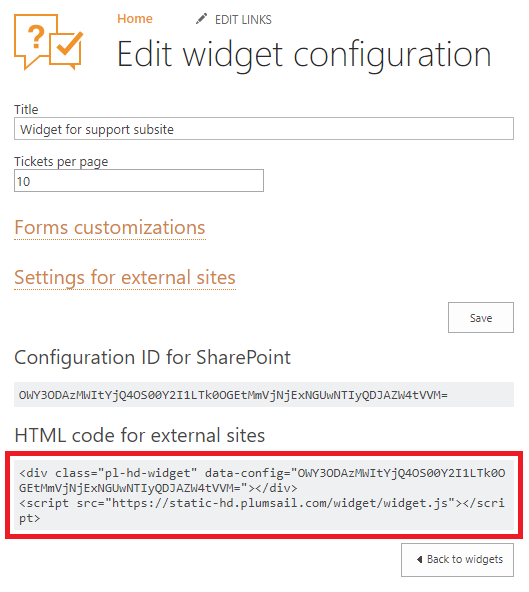
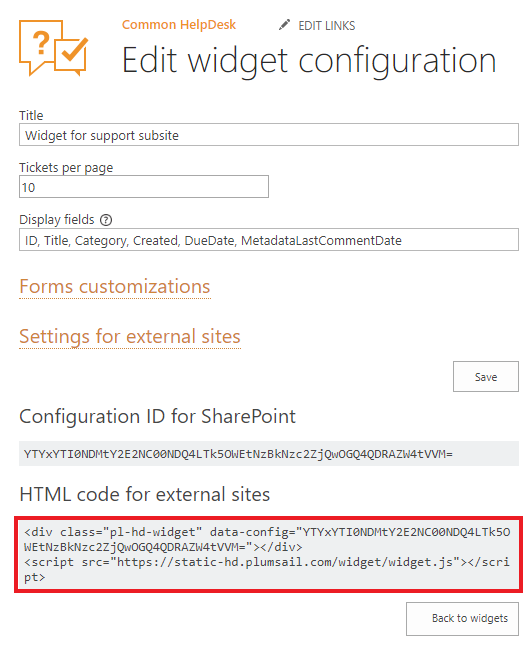
updated widget configuration docs

diff --git a/Online/Configuration Guide/Adding widget to external site.rst b/Online/Configuration Guide/Adding widget to external site.rst
@@ -14,7 +14,15 @@ Here you can create a new widget configuration for your page by choosing 'New it
 |NewWidget|
 
 Provide a title for a widget configuration and choose how many tickets will be displayed on the page.
+
+You can customize fields displayed in widget ticket list. To do this you will need to provide a list of comma-separated field names in Display fields section. Note, that you need to use `internal names`_ of the fields. 
+
 If you are creating a widget for external site, you can choose widget language and whether to allow user registration. Registered users have ability to review their tickets.
+
+.. note::
+   Display fields customization is available from version 1.4.7.
+.. note::
+   Display fields are cached for 30 minutes for optimisation purposes. You will need to clear browser cache to apply your changes immediatly.
 
 |WidgetMenu|
 
@@ -56,3 +64,4 @@ Open editing form of your HTML page and add copied code where you'd like to plac
 
 
 .. _this link: /Configuration%20Guide/deprecated/Widget.html
+.. _internal names: ../How%20To/Find%20the%20internal%20name%20of%20SharePoint%20column.html

diff --git a/Online/Configuration Guide/Adding widget to SharePoint site.rst b/Online/Configuration Guide/Adding widget to SharePoint site.rst
@@ -61,7 +61,15 @@ Here you can create a new widget configuration for your page by choosing 'New it
 |NewWidget|
 
 Provide a title for a widget configuration and choose how many tickets will be displayed on the page.
+
+You can customize fields displayed in widget ticket list. To do this you will need to provide a list of comma-separated field names in Display fields section. Note, that you need to use `internal names`_ of the fields. 
+
 If you are creating a widget for external site, you can choose widget language and whether to allow user registration. Registered users have ability to review their tickets.
+
+.. note::
+   Display fields customization is available from version 1.4.7.
+.. note::
+   Display fields are cached for 30 minutes for optimisation purposes. You will need to clear browser cache to apply your changes immediatly.
 
 |WidgetMenu|
 
@@ -146,3 +154,4 @@ Save the page. Your HelpDesk widget is ready to use.
 
 
 .. _this link: /Configuration%20Guide/deprecated/Widget.html
+.. _internal names: ../How%20To/Find%20the%20internal%20name%20of%20SharePoint%20column.html
